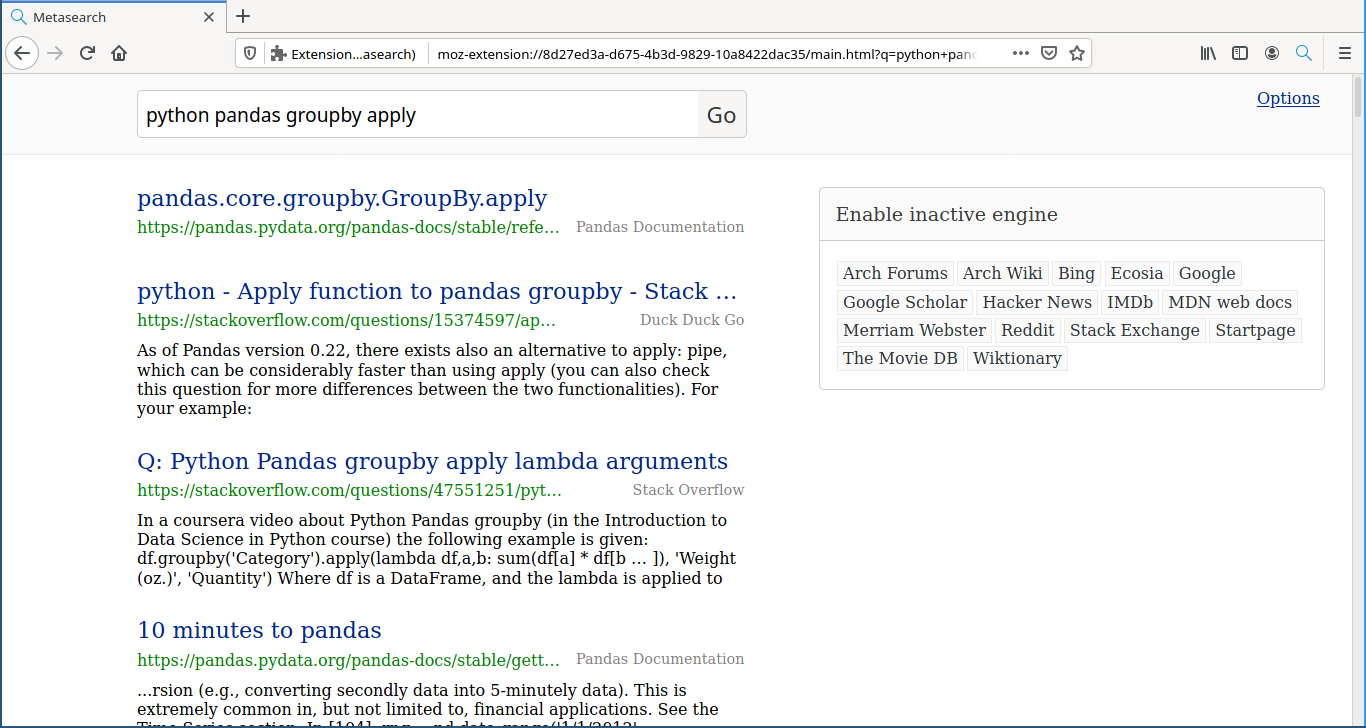
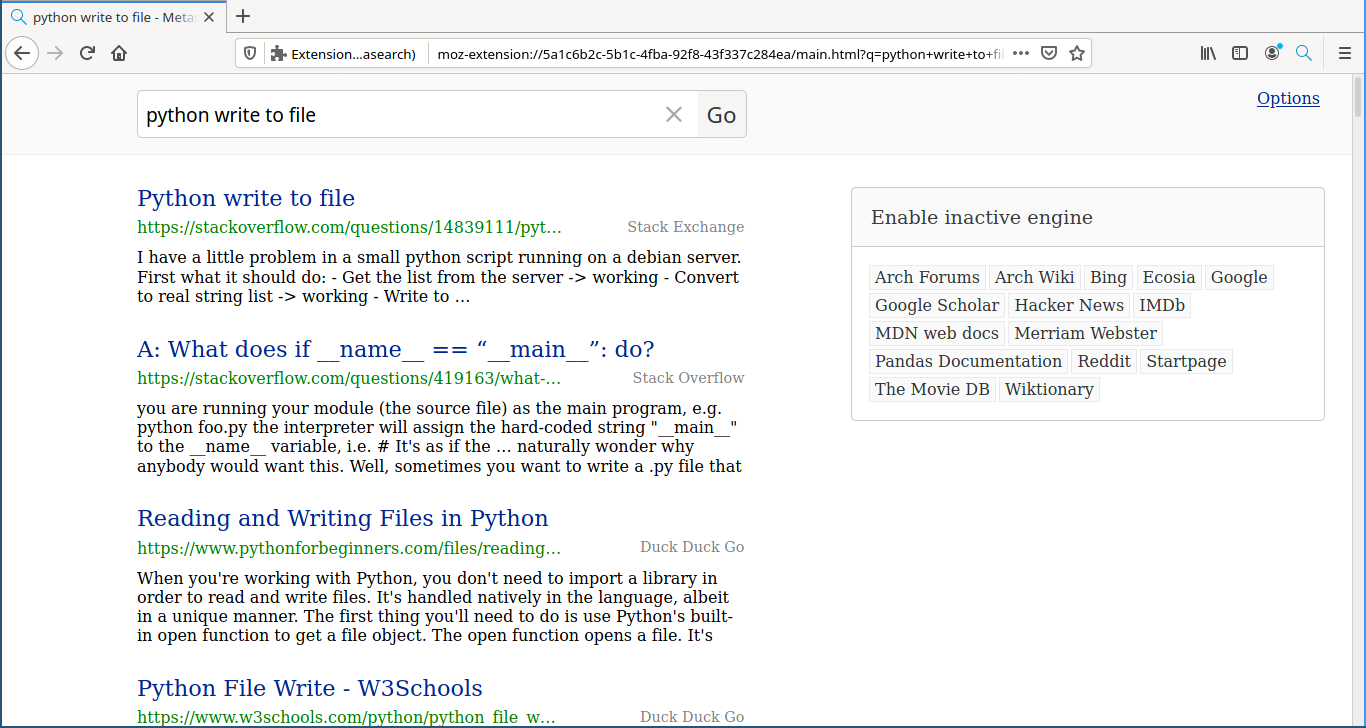
Update screenshots

diff --git a/README.md b/README.md
@@ -51,4 +51,4 @@ matches all queries (enabled by default for DuckDuckGo and Wikipedia). If an
 engine's keywords exist in the query, but its alias doesn't it will only be
 queried if the query does not contain any aliases.
 
-![Example search "python pandas groupby apply"](./screenshots/usage_1.png)
+![Example search "python write to file"](./screenshots/usage_1.png)
